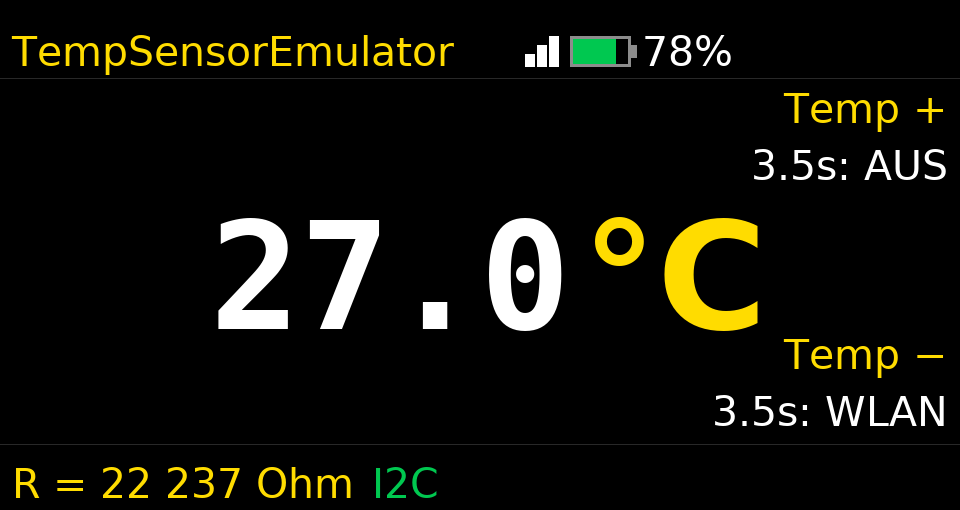
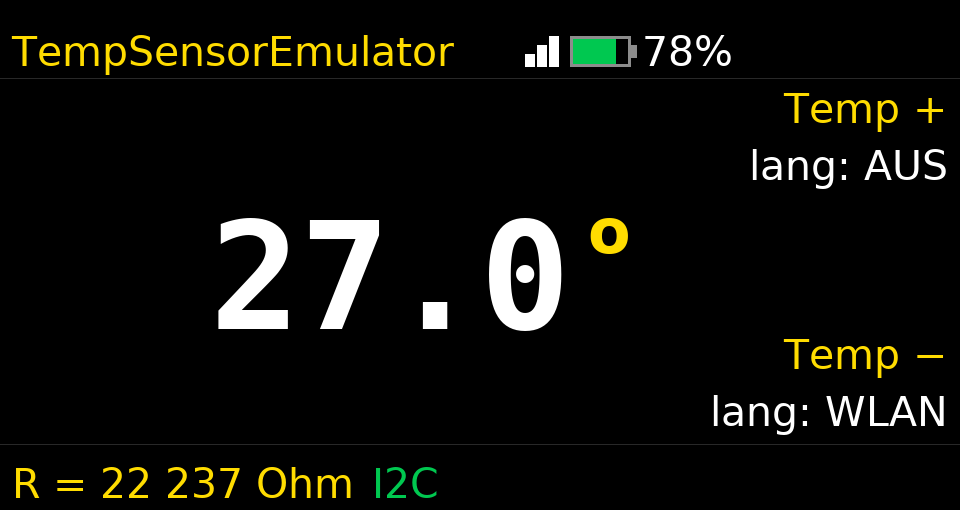
Fix degree symbol: show only small 'o' superscript, drop 'C'; lang: hints
- drawMain: replace large 'oC' (Font4×2) with small superscript 'o' (Font4×1)
- Hint labels: '3.5s: AUS' → 'lang: AUS', '3.5s: WLAN' → 'lang: WLAN'
- Mockup updated to match

Changed region(s): [[0.5938, 0.4118, 0.8125, 0.6471], [0.7188, 0.7647, 0.8438, 0.8529], [0.7812, 0.2941, 0.875, 0.3824]]

diff --git a/tools/generate_mockups.py b/tools/generate_mockups.py
@@ -199,7 +199,7 @@ def make_main():
 
     # ── Tasten-Hint oben rechts (y 28 + 47, Abstand 19 px) ──
     draw_text_right(draw, 316, 28, "Temp +",    F_F2, YELLOW)
-    draw_text_right(draw, 316, 47, "3.5s: AUS", F_F2, WHITE)
+    draw_text_right(draw, 316, 47, "lang: AUS", F_F2, WHITE)
 
     # ── Temperatur (Font7 ≈ 48 px), zentriert in 260px-Zone ──
     temp_str = "27.0"
@@ -208,13 +208,12 @@ def make_main():
     ty_real = 63
     draw.text((s(tx_real), s(ty_real)), temp_str, font=F_TEMP, fill=WHITE)
 
-    # "°C" gelb, gleiche em-Größe wie Temp → gleiche Höhe, top-aligned
-    draw.text((s(tx_real) + tw + s(4), s(ty_real)),
-              "°C", font=F_UNIT, fill=YELLOW)
+    # Grad-Symbol: nur kleines "o" (F_F4)
+    draw.text((s(tx_real) + tw + s(6), s(ty_real + 2)), "o", font=F_F4, fill=YELLOW)
 
     # ── Tasten-Hint unten rechts (y 110 + 129, Abstand 19 px) ──
     draw_text_right(draw, 316, 110, "Temp −",     F_F2, YELLOW)
-    draw_text_right(draw, 316, 129, "3.5s: WLAN", F_F2, WHITE)
+    draw_text_right(draw, 316, 129, "lang: WLAN", F_F2, WHITE)
 
     # ── Info-Zeile (y 148–170) ────────────────────────────────
     r_str = "R = 22 237 Ohm"

diff --git a/src/display.cpp b/src/display.cpp
@@ -207,7 +207,7 @@ void drawMain(float tempC, float ohm,
     const char* hP1 = "Temp +";
     tft.drawString(hP1, 320 - tft.textWidth(hP1) - 4, 28);
     tft.setTextColor(COL_WHITE);
-    const char* hP2 = "3.5s: AUS";
+    const char* hP2 = "lang: AUS";
     tft.drawString(hP2, 320 - tft.textWidth(hP2) - 4, 47);
 
     // ── Temperatur zentriert (y 63–111) ──────────────────────
@@ -225,11 +225,11 @@ void drawMain(float tempC, float ohm,
 
     // "oC" in Gelb, Font4×2 (32px) — bottom-aligned mit Temperatur
     // Font6 enthält nur Ziffern+Doppelpunkt, daher Font4 bei size 2
+    // Grad-Symbol: nur kleines "o" (Font4×1)
     tft.setFont(&fonts::Font4);
-    tft.setTextSize(2);
     tft.setTextColor(COL_YELLOW);
-    tft.drawString("oC", tx + tw + 4, ty + 16);
     tft.setTextSize(1);
+    tft.drawString("o", tx + tw + 6, ty + 2);
 
     // ── Tasten-Hint unten rechts: BOOT = Temp − ──────────────
     tft.setFont(&fonts::Font2);
@@ -237,7 +237,7 @@ void drawMain(float tempC, float ohm,
     const char* hM1 = "Temp -";
     tft.drawString(hM1, 320 - tft.textWidth(hM1) - 4, 110);
     tft.setTextColor(COL_WHITE);
-    const char* hM2 = "3.5s: WLAN";
+    const char* hM2 = "lang: WLAN";
     tft.drawString(hM2, 320 - tft.textWidth(hM2) - 4, 129);
 
     drawSeparator(148);